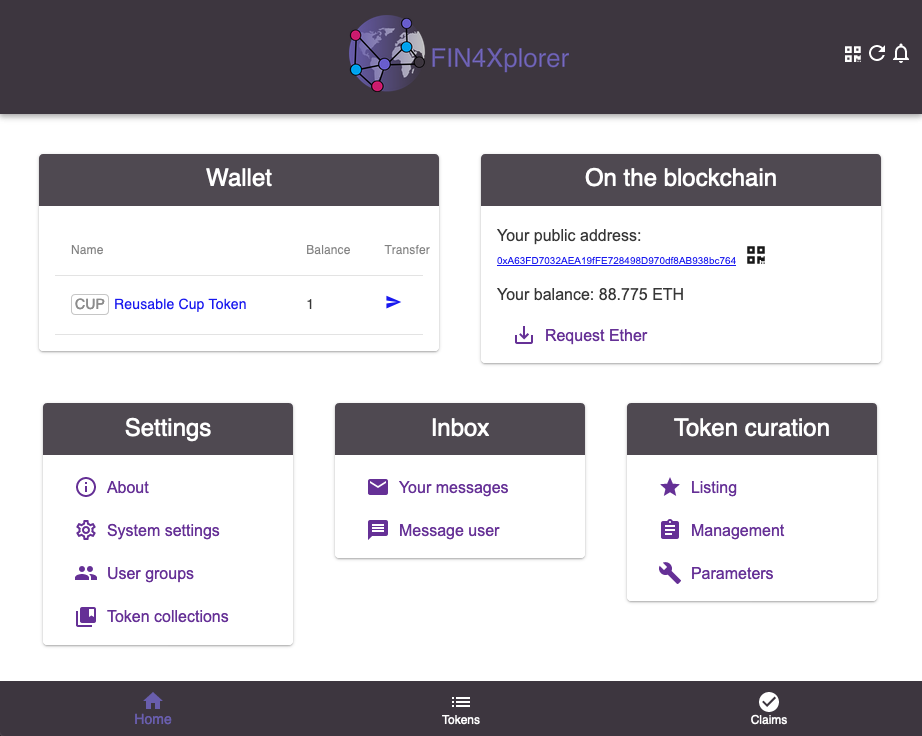
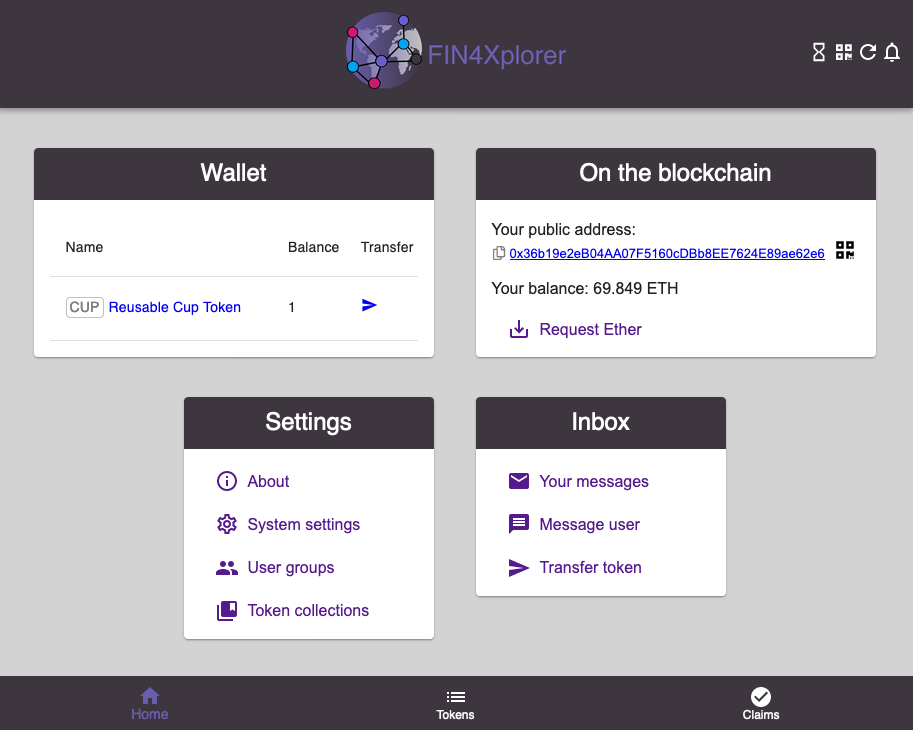
Update application overview page

diff --git a/docs/dapp-overview.rst b/docs/dapp-overview.rst
@@ -11,7 +11,7 @@ Home
 
 The two main subsites are accessible in the bottom bar: `Tokens`_ and `Claims`_.
 
-The three icons in the top bar are for showing the users QR code, reloading the page and for getting notified about new messages.
+The icons in the top bar are for showing pending transactions, the users QR code, reloading the page and for getting notified about new messages.
 
 The various boxes shown are explained in the chapter `More functionalities <more-functionalities.html>`_.
 
